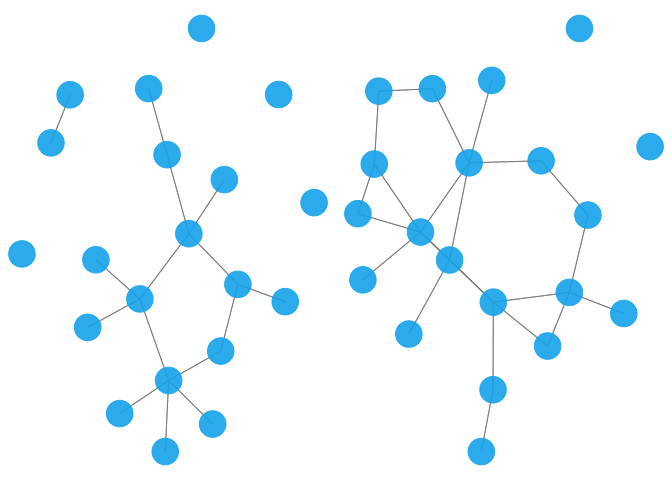
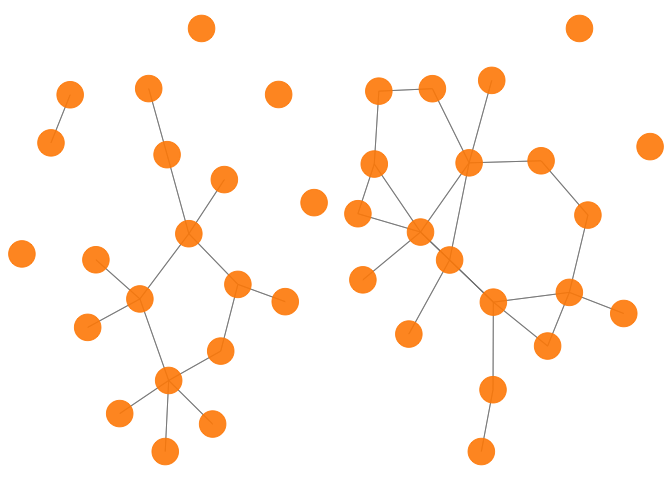
Update README

diff --git a/README.md b/README.md
@@ -114,11 +114,11 @@ The resulting JoStARS graphs can be visualised with functions from the `network`
 set.seed(1234)
 net1 <- network::network(adj.mat1)
 net2 <- network::network(adj.mat2)
-g1 <- GGally::ggnet2(net1, alpha = 0.9, color = "deepskyblue2")
+g1 <- GGally::ggnet2(net1, alpha = 0.9, color = "darkorange")
 #> Registered S3 method overwritten by 'GGally':
 #>   method from   
 #>   +.gg   ggplot2
-g2 <- GGally::ggnet2(net2, alpha = 0.9, color = "deepskyblue2")
+g2 <- GGally::ggnet2(net2, alpha = 0.9, color = "darkorange")
 ggpubr::ggarrange(g1, g2, ncol = 2, nrow = 1)
 ```
 
